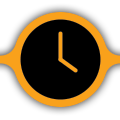
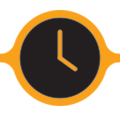
improved timeline slider looks. fixes #107 and 106

diff --git a/InternetMap/ViewController.m b/InternetMap/ViewController.m
@@ -163,10 +163,18 @@ BOOL UIGestureRecognizerStateIsActive(UIGestureRecognizerState state) {
     
     
     //customize timeline slider
-    [self.timelineSlider setMinimumTrackImage:[[UIImage imageNamed:@"timeline-barleft"] resizableImageWithCapInsets:UIEdgeInsetsMake(0, 11, 0, 1)] forState:UIControlStateNormal];
-    [self.timelineSlider setMaximumTrackImage:[[UIImage imageNamed:@"timeline-barright"] resizableImageWithCapInsets:UIEdgeInsetsMake(0, 1, 0, 11)] forState:UIControlStateNormal];
+    UIImage* leftCap = [[UIImage imageNamed:@"timeline-left"] resizableImageWithCapInsets:UIEdgeInsetsMake(0, 11, 0, 1)];
+    UIImage* rightCap = [[UIImage imageNamed:@"timeline-right"] resizableImageWithCapInsets:UIEdgeInsetsMake(0, 1, 0, 11)];
+    [self.timelineSlider setMinimumTrackImage:leftCap forState:UIControlStateNormal];
+    [self.timelineSlider setMaximumTrackImage:rightCap forState:UIControlStateNormal];
     [self.timelineSlider setThumbImage:[UIImage imageNamed:@"timeline-handle"] forState:UIControlStateNormal];
-
+    UIImageView* leftSliderCap = [[UIImageView alloc] initWithFrame:CGRectMake(-11, -18, 22, leftCap.size.height)];
+    leftSliderCap.image = leftCap;
+    [self.timelineSlider addSubview:leftSliderCap];
+    
+    UIImageView* rightSliderCap = [[UIImageView alloc] initWithFrame:CGRectMake(self.timelineSlider.width-11, -18, 22, rightCap.size.height)];
+    rightSliderCap.image = rightCap;
+    [self.timelineSlider addSubview:rightSliderCap];
     
     //setup timeline slider values
     float diff = MAX_TIMELINE_YEAR-MIN_TIMELINE_YEAR;
